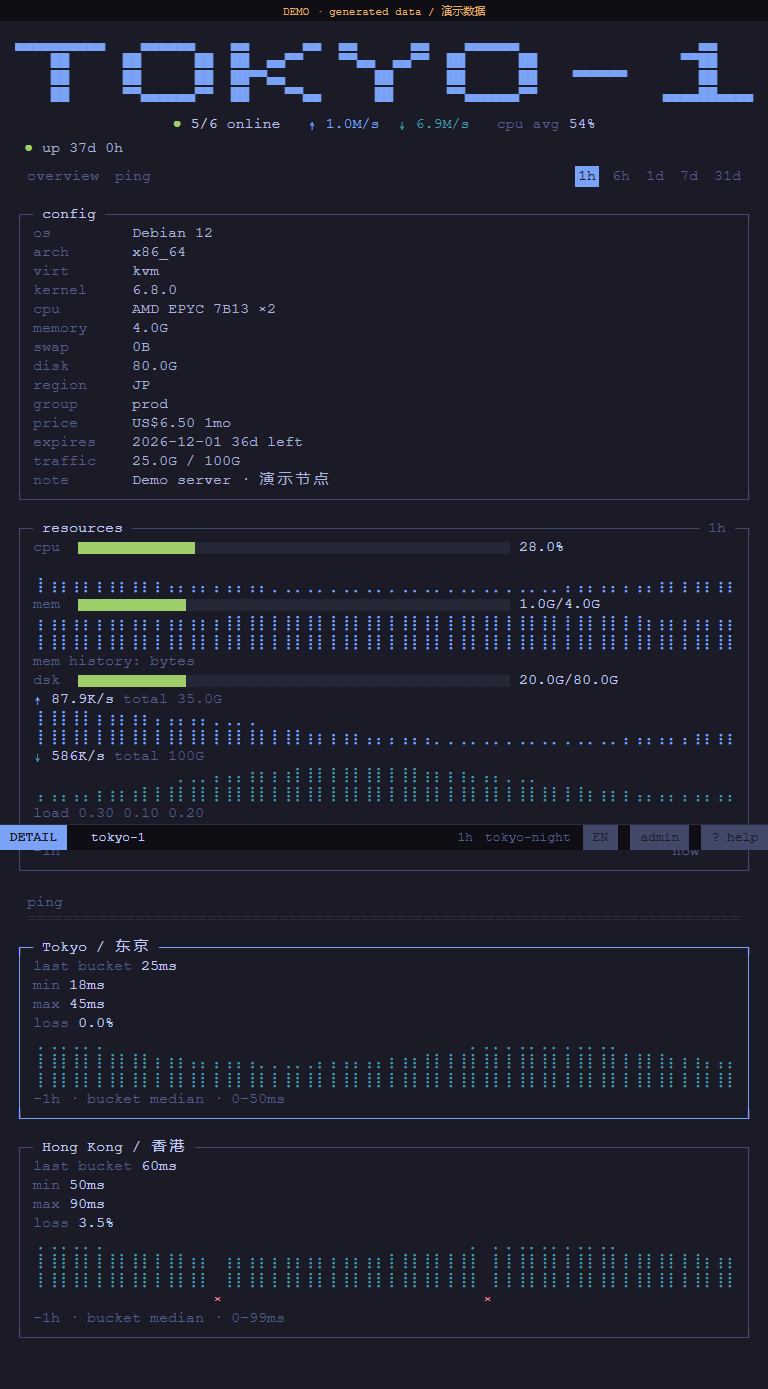
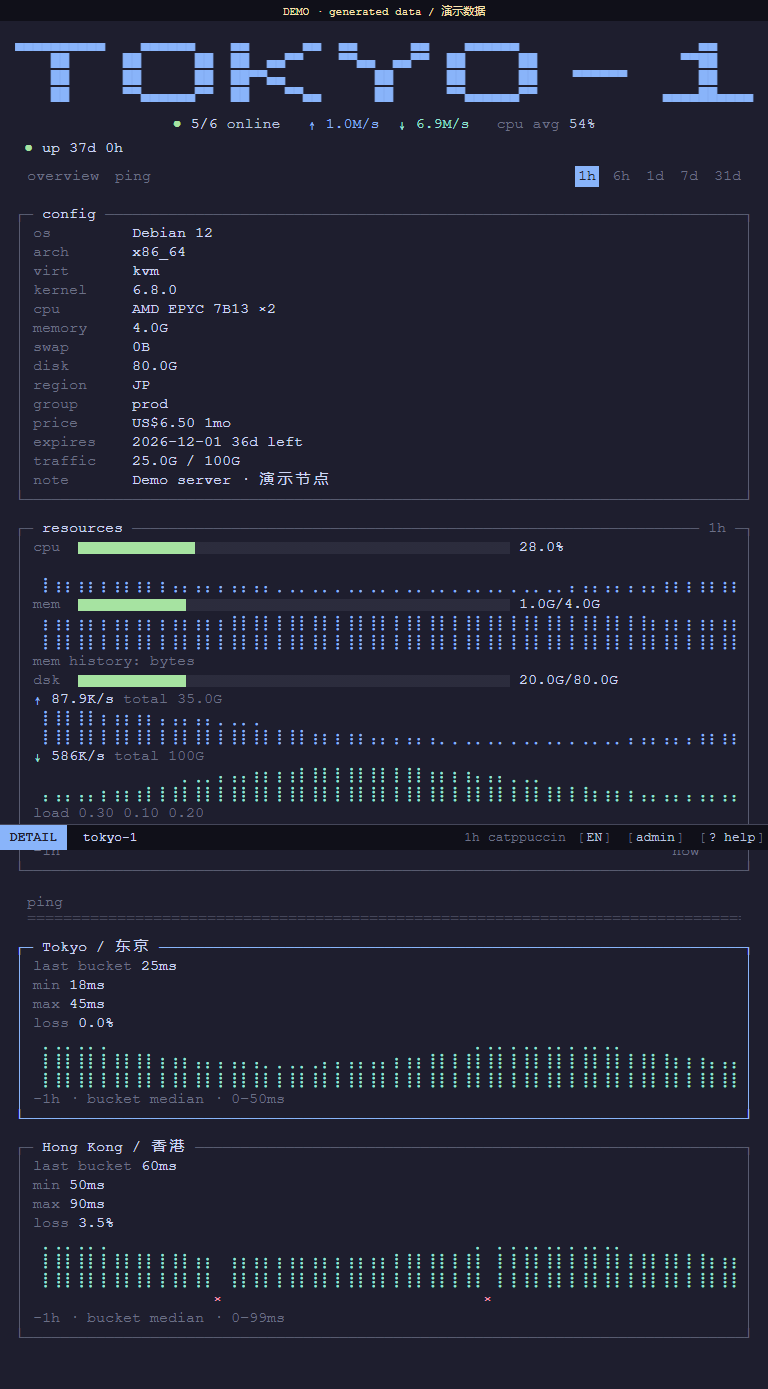
feat: automate releases and refine terminal layout

diff --git a/src/app.js b/src/app.js
@@ -37,13 +37,13 @@ let banner, bannerText = "";
 
 // ---- palette ----
 const dark = matchMedia("(prefers-color-scheme: dark)");
-const adminDefault = () => (dark.matches ? settings.palette_dark || "tokyo-night" : settings.palette_light || "catppuccin-latte");
+const adminDefault = () => (dark.matches ? settings.palette_dark || "catppuccin" : settings.palette_light || "catppuccin");
 const colorCache = {};
 const TOKENS = { main: "accent", bright: "bright-foreground", dim: "muted", green: "green", cyan: "cyan", blue: "blue", orange: "orange", red: "red", yellow: "yellow" };
 const color = (tok) => colorCache[tok] || (colorCache[tok] = getComputedStyle(document.documentElement).getPropertyValue("--" + (TOKENS[tok] || tok)).trim() || "#888");
 
 function applyPalette(name) {
-  const p = PALETTES[name] || PALETTES["tokyo-night"] || Object.values(PALETTES)[0];
+  const p = PALETTES[name] || PALETTES["catppuccin"] || Object.values(PALETTES)[0];
   if (!p) return;
   const root = document.documentElement.style;
   const c = (k, fb) => p[k] || p[fb] || p.foreground;
@@ -96,7 +96,7 @@ function cardHTML(n, i) {
   const meterRow = (label, p, has) => b.row([["d", ` ${label} `], ...meter(p / 100, bl), ["w", (has ? p.toFixed(1) + "%" : "-").padStart(7) + " "]]);
   const cpu = on && finite(r.cpu) ? r.cpu : null, mem = on && finite(r.mem_used) && r.mem_total>0 ? pct(r.mem_used, r.mem_total) : null, dsk = on && finite(r.disk_used) && r.disk_total>0 ? pct(r.disk_used, r.disk_total) : null;
   L.push(meterRow("cpu", cpu??0, cpu!==null));
-  for (const g of graph(h.cpu, I - 2, 2, 100)) L.push(b.row([["", " "], ["a", g]]));
+  for (const g of graph(h.cpu, I - 2, 1, 100)) L.push(b.row([["", " "], ["a", g]]));
   L.push(meterRow("mem", mem??0, mem!==null));
   L.push(meterRow("dsk", dsk??0, dsk!==null));
 
@@ -184,7 +184,9 @@ function charWidth() {
   return cwCache;
 }
 function calcWidth() {
-  W = Math.max(20, Math.min(46, Math.floor((innerWidth - 16) / charWidth())));
+  const available=Math.max(0,document.documentElement.clientWidth-16),gap=14,cell=charWidth();
+  const columns=Math.max(1,Math.floor((available+gap)/(34*cell+gap)));
+  W=Math.max(20,Math.min(46,Math.floor((available-gap*(columns-1))/columns/cell)));
   $("grid").style.setProperty("--w", W);
 }
 function layout() {
@@ -432,7 +434,7 @@ addEventListener('pageshow',e=>{if(e.persisted&&!document.hidden){lastSample=0;s
 
 // ---- boot ----
 banner=new OFX.Banner($('banner'),color);
-applyPalette('tokyo-night');setLang(detect(''),false);applyStatic();
+applyPalette('catppuccin');setLang(detect(''),false);applyStatic();
 let rz;addEventListener('resize',()=>{clearTimeout(rz);rz=setTimeout(()=>{cwCache=0;layout();},120);});
 document.fonts?.ready.then(()=>{cwCache=0;layout();});document.fonts?.addEventListener('loadingdone',()=>{cwCache=0;layout();});
 $('search-button').addEventListener('click',openSearch);

diff --git a/tests/e2e/theme.spec.js b/tests/e2e/theme.spec.js
@@ -1,4 +1,7 @@
 import {test,expect} from '@playwright/test';
+test('fresh visitors start with Catppuccin and can use terminal-styled controls',async({page})=>{
+ await page.goto('/');await expect(page.locator('.card')).toHaveCount(6);await expect(page.locator('#st-pal')).toHaveText('catppuccin');await expect(page.locator('.palette-control')).toBeVisible();await page.locator('#palette').selectOption('nord');await expect(page.locator('#st-pal')).toHaveText('nord');
+});
 test('faithful list, Monitor detail, routing, languages and palettes',async({page})=>{
  const errors=[];page.on('pageerror',e=>errors.push(e.message));await page.goto('/');await expect(page.locator('.card')).toHaveCount(6);
  await expect(page.locator('#demo')).toBeVisible();await page.locator('.card').first().click();await expect(page).toHaveURL(/#\/node\/1/);await expect(page.locator('#detail-body')).toContainText('config');
@@ -27,6 +30,11 @@ test('storage methods may throw; preference works for the current session',async
 test('loaded fonts and viewport resizing keep character geometry aligned',async({page})=>{
  await page.goto('/');await expect(page.locator('.card')).toHaveCount(6);await page.screenshot();await page.locator('.card').first().click();await expect(page.locator('.blk').first()).toBeVisible();await page.screenshot({fullPage:true});
  for(const width of [320,375,768]){await page.setViewportSize({width,height:850});await page.waitForTimeout(200);expect(await page.evaluate(()=>document.documentElement.scrollWidth<=innerWidth)).toBe(true);}
+});
+test('medium windows use two compact columns instead of a narrow centered stack',async({page})=>{
+ await page.setViewportSize({width:860,height:850});await page.goto('/');await expect(page.locator('.card')).toHaveCount(6);await page.screenshot();
+ const layout=await page.locator('#grid').evaluate(el=>{const a=el.children[0].getBoundingClientRect(),b=el.children[1].getBoundingClientRect();return {firstTop:a.top,secondTop:b.top,firstLeft:a.left,secondLeft:b.left,height:a.height};});
+ expect(layout.firstTop).toBe(layout.secondTop);expect(layout.secondLeft).toBeGreaterThan(layout.firstLeft);expect(layout.height).toBeLessThanOrEqual(180);expect(await page.evaluate(()=>document.documentElement.scrollWidth<=innerWidth)).toBe(true);
 });
 test('native buttons activate with Enter and retain focus across snapshots',async({page})=>{
  await page.goto('/');const group=page.getByRole('button',{name:'[prod]',exact:true});await group.focus();await page.keyboard.press('Enter');await expect(page.locator('.card')).toHaveCount(2);await expect(page).not.toHaveURL(/node/);

diff --git a/src/visual/style.css b/src/visual/style.css
@@ -122,3 +122,17 @@ body { padding-bottom: 34px; }
 .meter-fill .cell, .meter-empty .cell { height:12px; line-height:12px; vertical-align:middle; overflow:hidden; text-indent:-9999px; }
 .meter-fill .cell { background:currentColor; }
 .meter-empty .cell { background-image:radial-gradient(currentColor .5px,transparent .75px); background-size:2px 2px; }
+
+/* Terminal controls: keep native semantics, render like bracketed commands. */
+.palette-control { display:inline-flex; align-items:center; color:var(--dark-foreground); white-space:nowrap; }
+.palette-control:has(select[hidden]) { display:none; }
+.palette-control .sel { appearance:none; -webkit-appearance:none; border:0; border-radius:0; background:transparent; color:var(--foreground); padding:1px .8ch; min-width:16ch; cursor:pointer; }
+.palette-control .sel:focus-visible { outline:1px solid var(--accent); outline-offset:2px; }
+.palette-control:hover,.palette-control:focus-within { color:var(--accent); }
+.palette-control option { color:var(--foreground); background:var(--background); }
+.status { gap:8px; }
+.status .hk { color:var(--light-foreground); background:transparent; padding:0 3px; gap:2px; }
+.status .hk::before { content:'['; color:var(--dark-foreground); }
+.status .hk::after { content:']'; color:var(--dark-foreground); }
+.status .hk:hover,.status .hk:focus-visible { color:var(--accent); background:transparent; }
+@media(max-width:480px) { .status { gap:4px; } .status .hk { padding:0 2px; } .palette-control .sel { min-width:13ch; } }

diff --git a/index.html b/index.html
@@ -19,7 +19,7 @@
   <nav class="ctl">
     <span id="chips" hidden></span><button id="search-button" class="chip" aria-label="Search / 搜索">[/]</button>
     <span class="spacer"></span>
-    <select id="palette" class="sel" hidden aria-label="palette"></select>
+    <label class="palette-control"><span aria-hidden="true">[theme:</span><select id="palette" class="sel" hidden aria-label="palette"></select><span aria-hidden="true">]</span></label>
   </nav>
   <h2 class="rule" data-i18n="nodes">nodes</h2>
   <main id="grid" class="grid"></main>

diff --git a/README.md b/README.md
@@ -53,7 +53,7 @@ sha256sum -c theme.tar.gz.sha256
 
 - **终端视觉**：等宽排版、直角字符框、btop 风格资源条、CPU 与网速字符图。
 - **ASCII 横幅**：英文和中文站点名；五种效果、随机播放、点击重播。
-- **23 套配色**：跟随系统深浅色；站长设置默认配色，访客可自行切换。
+- **23 套配色**：默认使用 Catppuccin；站长可分别设置深浅色默认配色，访客可自行切换。
 - **中英文界面**：访客选择优先，其次为站点默认和浏览器语言。
 - **节点浏览**：分组、搜索、在线与网速汇总；汇总跟随当前筛选结果。
 - **节点详情**：机器信息、实时资源、历史曲线、费用、账期、到期与流量。
@@ -97,8 +97,8 @@ sha256sum -c theme.tar.gz.sha256
 | 设置 | 默认值 | 说明 |
 | --- | --- | --- |
 | 默认语言 | `auto` | 可选 `auto`、`en`、`zh` |
-| 暗色配色 | `tokyo-night` | 系统为暗色时采用 |
-| 亮色配色 | `catppuccin-latte` | 系统为亮色时采用 |
+| 暗色配色 | `catppuccin` | 系统为暗色时采用 |
+| 亮色配色 | `catppuccin` | 系统为亮色时采用 |
 | 允许切换配色 | 开启 | 关闭后忽略访客已保存的配色 |
 | 显示分组筛选 | 开启 | 隐藏控件不会删除节点 |
 | 横幅文字 | 留空 | 默认使用站点名 |
@@ -119,71 +119,6 @@ sha256sum -c theme.tar.gz.sha256
 - 即使浏览器已登录管理员，本主题也不展示私有地址、hostname、私有备注或 token。
 
 接口处理依据：[主题开发指南](https://monitor-document.pages.dev/dev/theme)、[架构与协议](https://monitor-document.pages.dev/dev/architecture)、[流量说明](https://monitor-document.pages.dev/config/traffic)。
-
-## 开发
-
-使用 Node.js **22.12+ 或 24 LTS** 与 npm；仓库提交了锁文件。
-
-```powershell
-npm ci
-npm run dev:demo
-```
-
-演示模式使用生成数据并明确标记 DEMO。正常开发通过 `MONITOR_HUB` 指向测试 Hub：
-
-```powershell
-# Windows PowerShell
-$env:MONITOR_HUB = 'https://your-test-hub.example'
-npm run dev
-```
-
-```bash
-# Linux / macOS
-MONITOR_HUB=https://your-test-hub.example npm run dev
-```
-
-不设置时代理到 `http://127.0.0.1:9911`。Vite 同时代理 `/api` 和 WebSocket；测试 Hub 需要开放公开状态页。
-
-技术实现为 **原生 JavaScript ES Modules + Vite**。`src/data/` 负责协议与连接，`src/views/` 负责页面，`src/render/` 负责字符绘制，`src/visual/` 保留上游视觉资源。生产构建不包含 `dev/` 模拟接口，也不会断网自动切换假数据。
-
-### 检查与打包
-
-```powershell
-npm test
-npx playwright install chromium firefox webkit
-npm run test:e2e
-npm run package
-node scripts/smoke-production.mjs
-npm run check:package
-```
-
-Linux CI 可能还需要系统依赖，可使用 `npx playwright install --with-deps chromium firefox webkit`。
-
-`npm run package` 输出主题包与 SHA-256 文件，检查归档根目录、文件类型、体积、gzip 完整性及元数据。发布时可设置环境变量 `RELEASE_TAG`，校验 tag 与 `theme.json` 版本一致。
-
-```text
-theme.tar.gz
-├── theme.json
-├── preview.png
-├── LICENSE
-├── THIRD_PARTY.md
-├── THIRD_PARTY_NOTICES.txt
-└── dist/
-    ├── index.html
-    ├── favicon.svg
-    ├── apple-touch-icon.png
-    └── assets/
-```
-
-详情地址使用 `/#/node/<id>`，刷新及浏览器前进/后退均可用；`/admin` 由 Hub 提供。站点图标使用 Monitor 约定的固定路径，便于 Hub 替换。
-
-## 验证范围
-
-首版通过 **14 项 Node 测试、51 项浏览器检查**，涵盖 Chromium、Firefox、WebKit，另有生产构建、编译产物冒烟检查和安装包结构校验。
-
-以 Monitor 1.4.1 时代的接口形状为开发基线，对旧版可选字段做降级处理。**尚未在真实 Hub 上验证上传安装、设置持久化和升级，也未测试实体手机**；WebKit 引擎检查不等于验证所有 Safari/iOS 环境。完整记录见 [验证说明](docs/verification.md)。
-
-反馈问题时请附 Hub 版本、浏览器版本、屏幕尺寸和复现步骤，不要提交真实节点信息、密码或令牌。
 
 ## 来源与许可
 

diff --git a/docs/releases/v0.1.1.md b/docs/releases/v0.1.1.md
@@ -1,0 +1,17 @@
+# Omarchy · Monitor v0.1.1
+
+- 首页按可用宽度自动调整卡片尺寸，中等窗口优先排成两列，减少左右留白。
+- CPU 历史图改为紧凑单行，缩短卡片高度，保留终端字符视觉。
+- 默认配色改为 Catppuccin；配色选择器及底栏操作统一为终端方括号文字风格。
+- 精简 README，保留安装、预览、功能、配置和许可说明。
+- 配置 GitHub Actions：推送 `v*` 标签后自动测试、构建、校验并发布正式 Release。
+
+## 安装
+
+Monitor 后台「主题 → 从 GitHub 安装」填写：
+
+```text
+https://github.com/ayingQAQ/monitor-theme-omarchy
+```
+
+也可下载附件 `theme.tar.gz` 上传安装。校验文件为 `theme.tar.gz.sha256`；请勿使用 Source code 压缩包。
